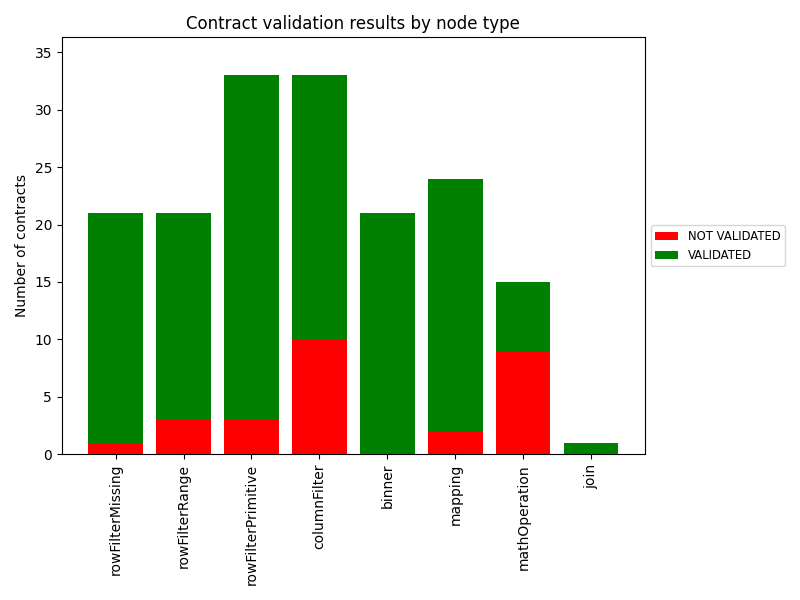
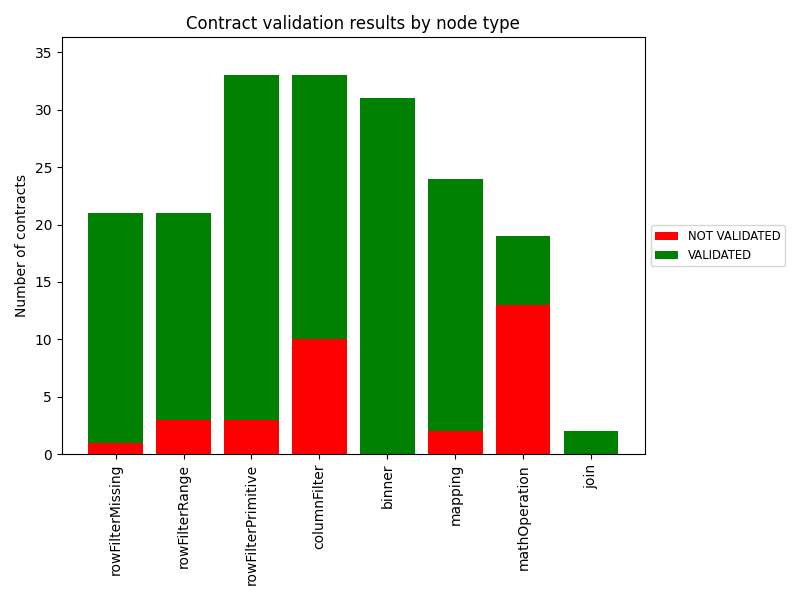
updated generated code for selected subworkflows and updated contract validation results in json data format for updated batcharts visualization

diff --git a/visualization_scripts/contract_val_results_gui.py b/visualization_scripts/contract_val_results_gui.py
@@ -1,33 +1,13 @@
-"""
-This script implements a graphical user interface (GUI) using Gradio
-to visualize contract validation results from workflows generated by
-KNIME and Python platforms. It provides automatic bar chart generation
-based on selected configurations and exports the resulting images.
-
-Modules:
-- gradio: For creating the GUI interface.
-- json: For reading structured data from JSON files.
-- os: For managing file paths and directories.
-- matplotlib.pyplot: For bar chart visualization.
-- collections: For structured counting of node types and validation results.
-
-Functionality:
-- Reactive graph generation upon input change.
-- Bar chart configuration by workflow, contract type, or node type.
-- Chart export with descriptive filenames based on selected options.
-- Side panel with contract validation statistics and percentages.
-"""
-
 import gradio as gr
 import json
 import os
 import matplotlib
-matplotlib.use('Agg')  # Avoid tkinter-related backend issues
+matplotlib.use('Agg')
 import matplotlib.pyplot as plt
 from collections import defaultdict, Counter
 import random
 
-# === Configuration ===
+# === Configuración ===
 
 DATA_PATHS = {
     "KNIME": "visualization_scripts/34_workflow_generated_code_validation_KNIME_data.json",
@@ -36,36 +16,24 @@ DATA_PATHS = {
 EXPORT_DIR = "visualization_scripts/barcharts_images"
 os.makedirs(EXPORT_DIR, exist_ok=True)
 
-
-# === Data Loading ===
+# === Carga de datos ===
 
 def flatten_contracts(contract_list: list):
     """
-    Flatten the contract list
-
-    Args:
-        contract_list: list with the contract results of a specific node
-
-    Returns:
-        the contract list flattened
+    Devuelve una lista de tuplas (tipo, resultado) para todos los contratos de un nodo.
     """
-    return {list(d.keys())[0]: list(d.values())[0] for d in contract_list if isinstance(d, dict)}
+    result = []
+    for d in contract_list:
+        if isinstance(d, dict):
+            for k, v in d.items():
+                result.append((k, v))
+    return result
 
 def load_data(source: str) -> list:
-    """
-    Load the workflow data corresponding to the selected platform.
-
-    Args:
-        source (str): Platform name ('KNIME' or 'Python').
-
-    Returns:
-        list: List of workflow dictionaries with node validation results.
-    """
     with open(DATA_PATHS[source], 'r') as f:
         return json.load(f)["workflows"]
 
-
-# === Color Mapping ===
+# === Asignación de colores ===
 
 def assign_colors(result_types):
     fixed_colors = {
@@ -85,19 +53,18 @@ def assign_colors(result_types):
         color_map[res] = col
     return color_map
 
-
-# === Chart Generation ===
+# === Generación de gráficos y estadísticas ===
 
 def generate_bar_chart_and_stats(source: str, x_axis_type: str):
     workflows = load_data(source)
 
-    # Identify all result types
+    # Identificar todos los tipos de resultado
     all_results = set()
     for wf in workflows:
         for node in wf["nodes"]:
             for contracts in node.values():
-                contracts_dict = flatten_contracts(contracts)
-                all_results.update(contracts_dict.values())
+                for _, result in flatten_contracts(contracts):
+                    all_results.add(result)
     all_results = sorted(all_results)
     color_map = assign_colors(all_results)
 
@@ -105,8 +72,7 @@ def generate_bar_chart_and_stats(source: str, x_axis_type: str):
         counts = {res: 0 for res in all_results}
         for node in nodes:
             for contracts in node.values():
-                contracts_dict = flatten_contracts(contracts)
-                for result in contracts_dict.values():
+                for _, result in flatten_contracts(contracts):
                     if result in counts:
                         counts[result] += 1
         return counts
@@ -125,79 +91,46 @@ def generate_bar_chart_and_stats(source: str, x_axis_type: str):
     elif x_axis_type == "subworkflows by node types":
         fig, ax = plt.subplots(figsize=(8, 6))
         node_type_set = set()
-
         for wf in workflows:
-
             for node in wf["nodes"]:
                 node_type_set.update(node.keys())
-
         node_types = sorted(node_type_set)
-
         color_map = assign_colors(node_types)
-
         node_type_counts = {nt: [] for nt in node_types}
-
         x_labels = []
-
         for wf in workflows:
-
             x_labels.append(wf["name"])
-
             counts = Counter()
-
             for node in wf["nodes"]:
-
-                for node_type in node.keys():
+                for node_type, contracts in node.items():
                     counts[node_type] += 1
-
             for nt in node_types:
                 node_type_counts[nt].append(counts[nt])
-
         x = range(len(x_labels))
-
         left = [0] * len(x_labels)
-
         for nt in node_types:
             ax.barh(x, node_type_counts[nt], left=left, color=color_map[nt], label=nt)
-
             left = [l + c for l, c in zip(left, node_type_counts[nt])]
-
         ax.set_yticks(x)
-
         ax.set_yticklabels(x_labels)
-
         ax.set_xlabel("Number of nodes")
-
         ax.set_title("Node types in subworkflows")
-
         ax.legend(loc="center left", bbox_to_anchor=(1, 0.5), fontsize="small")
-
         ax.xaxis.get_major_locator().set_params(integer=True)
-
         max_width = max(sum(values) for values in zip(*node_type_counts.values()))
-
         ax.set_xlim(right=max_width * 1.1)
-
         plt.subplots_adjust(right=0.75)
         plt.tight_layout()
-
         filename = f"chart_{source}_subworkflows_by_node_types.png"
-
         file_path = os.path.join(EXPORT_DIR, filename)
-
         plt.savefig(file_path)
-
         plt.close(fig)
-
-        # Estadísticas básicas opcionales (a tu gusto puedes enriquecerlas más)
         stats_html = "<h4>node types Statistics</h4>"
         total_nodes = sum(sum(v) for v in node_type_counts.values())
-        stats_html += f"<p><b>Total nodes:</b> {total_nodes}</p>"
         for nt in node_types:
             count = sum(node_type_counts[nt])
             percent = 100 * count / total_nodes if total_nodes else 0
             stats_html += f"<p style='color:{color_map[nt]}'><b>{nt}</b>: {count} ({percent:.1f}%)</p>"
-
         return file_path, stats_html
 
     elif x_axis_type == "contract type":
@@ -209,10 +142,9 @@ def generate_bar_chart_and_stats(source: str, x_axis_type: str):
             for wf in workflows:
                 for node in wf["nodes"]:
                     for contracts in node.values():
-                        contracts_dict = flatten_contracts(contracts)
-                        result = contracts_dict.get(ctype)
-                        if result in all_results:
-                            c_counts[result] += 1
+                        for tipo, result in flatten_contracts(contracts):
+                            if tipo == ctype and result in all_results:
+                                c_counts[result] += 1
             for res in all_results:
                 result_counts[res].append(c_counts[res])
 
@@ -222,8 +154,7 @@ def generate_bar_chart_and_stats(source: str, x_axis_type: str):
         for wf in workflows:
             for node in wf["nodes"]:
                 for node_type, contracts in node.items():
-                    contracts_dict = flatten_contracts(contracts)
-                    for result in contracts_dict.values():
+                    for _, result in flatten_contracts(contracts):
                         if result in all_results:
                             node_type_counts[node_type][result] += 1
         x_labels = list(node_type_counts.keys())
@@ -236,7 +167,6 @@ def generate_bar_chart_and_stats(source: str, x_axis_type: str):
         for res in all_results:
             ax.bar(x, result_counts[res], bottom=bottom, color=color_map[res], label=res)
             bottom = [b + rc for b, rc in zip(bottom, result_counts[res])]
-
         ax.set_xticks(x)
         ax.set_xticklabels(x_labels, rotation=90)
         ax.set_ylim(top=max(sum(values) for values in zip(*result_counts.values())) * 1.1)
@@ -245,29 +175,24 @@ def generate_bar_chart_and_stats(source: str, x_axis_type: str):
         ax.legend(loc="center left", bbox_to_anchor=(1, 0.5), fontsize="small")
         plt.subplots_adjust(right=0.75)
         plt.tight_layout()
-
         filename = f"chart_{source}_{x_axis_type.replace(' ', '_')}.png"
         file_path = os.path.join(EXPORT_DIR, filename)
         plt.savefig(file_path)
         plt.close(fig)
-
-        # Stats generation
+        # Estadísticas
         total_counter = Counter()
         contract_counter = defaultdict(Counter)
         for wf in workflows:
             for node in wf["nodes"]:
                 for contracts in node.values():
-                    contracts_dict = flatten_contracts(contracts)
-                    for ctype, result in contracts_dict.items():
+                    for tipo, result in flatten_contracts(contracts):
                         total_counter[result] += 1
-                        contract_counter[ctype][result] += 1
-
+                        contract_counter[tipo][result] += 1
         stats_html = "<h4>Validation Statistics</h4>"
         stats_html += f"<p><b>Total contracts:</b> {sum(total_counter.values())}</p>"
         for res in all_results:
             percent = 100 * total_counter[res] / sum(total_counter.values())
             stats_html += f"<p style='color:{color_map[res]}'><b>{res}</b>: {total_counter[res]} ({percent:.1f}%)</p>"
-
         stats_html += "<hr><h5>by contract type:</h5>"
         for ctype in ["PRECONDITION", "POSTCONDITION", "INVARIANT"]:
             stats_html += f"<p><b>{ctype}</b></p><ul>"
@@ -277,91 +202,53 @@ def generate_bar_chart_and_stats(source: str, x_axis_type: str):
                 pct = 100 * count / total if total > 0 else 0
                 stats_html += f"<li style='color:{color_map[res]}'>{res}: {count} ({pct:.1f}%)</li>"
             stats_html += "</ul>"
-
         return file_path, stats_html
 
     elif x_axis_type == "subworkflows":
-
         x = range(len(x_labels))
-
         left = [0] * len(x_labels)
-
         for res in all_results:
             ax.barh(x, result_counts[res], left=left, color=color_map[res], label=res)
-
             left = [l + rc for l, rc in zip(left, result_counts[res])]
-
         ax.set_yticks(x)
-
         ax.set_yticklabels(x_labels)
-
         max_total = max(sum(values) for values in zip(*result_counts.values()))
-        ax.set_xlim(right=(int(max_total) + 2))  # añade una marca extra entera
-
+        ax.set_xlim(right=(int(max_total) + 2))
         ax.set_xlabel("Number of contracts")
-
         ax.set_title(f"Contract validation results by {x_axis_type}")
-
         ax.legend(loc="center left", bbox_to_anchor=(1, 0.5), fontsize="small")
         plt.subplots_adjust(right=0.75)
         plt.tight_layout()
-
         filename = f"chart_{source}_{x_axis_type.replace(' ', '_')}.png"
-
         file_path = os.path.join(EXPORT_DIR, filename)
-
         plt.savefig(file_path)
-
         plt.close(fig)
-
-        # Stats generation (unchanged)
-
+        # Estadísticas
         total_counter = Counter()
-
         contract_counter = defaultdict(Counter)
-
         for wf in workflows:
-
             for node in wf["nodes"]:
-
                 for contracts in node.values():
-
-                    contracts_dict = flatten_contracts(contracts)
-                    for ctype, result in contracts_dict.items():
+                    for tipo, result in flatten_contracts(contracts):
                         total_counter[result] += 1
-
-                        contract_counter[ctype][result] += 1
-
+                        contract_counter[tipo][result] += 1
         stats_html = "<h4>Validation Statistics</h4>"
-
         stats_html += f"<p><b>Total contracts:</b> {sum(total_counter.values())}</p>"
-
         for res in all_results:
             percent = 100 * total_counter[res] / sum(total_counter.values())
-
             stats_html += f"<p style='color:{color_map[res]}'><b>{res}</b>: {total_counter[res]} ({percent:.1f}%)</p>"
-
         stats_html += "<hr><h5>by contract type:</h5>"
-
         for ctype in ["PRECONDITION", "POSTCONDITION", "INVARIANT"]:
-
             stats_html += f"<p><b>{ctype}</b></p><ul>"
-
             total = sum(contract_counter[ctype].values())
-
             for res in all_results:
                 count = contract_counter[ctype][res]
-
                 pct = 100 * count / total if total > 0 else 0
-
                 stats_html += f"<li style='color:{color_map[res]}'>{res}: {count} ({pct:.1f}%)</li>"
-
             stats_html += "</ul>"
-
         return file_path, stats_html
 
-
-# === Export Function ===
+# === Exportación de imagen ===
 
 def export_image():
     latest_image = next(
@@ -375,12 +262,10 @@ def export_image():
         return f"Chart exported as: {export_path}"
     return "No chart available for export."
 
-
 # === GUI ===
 
 with gr.Blocks(title="Contract Validation Results for 34 subworkflows") as demo:
     gr.Markdown("## Contract Validation Results for 34 subworkflows")
-
     with gr.Row():
         with gr.Column(scale=2):
             source = gr.Radio(choices=["KNIME", "Python"], value="KNIME", label="Select the platform")
@@ -389,20 +274,14 @@ with gr.Blocks(title="Contract Validation Results for 34 subworkflows") as demo:
                 value="subworkflows",
                 label="Select X-axis variable"
             )
-
             chart = gr.Image(type="filepath", label="Generated Chart")
             export_btn = gr.Button("Export Image")
             export_msg = gr.Textbox(label="Export Message")
         with gr.Column(scale=1):
             stats_panel = gr.HTML(label="Validation Statistics")
-
-    # Events
     source.change(fn=generate_bar_chart_and_stats, inputs=[source, x_axis], outputs=[chart, stats_panel])
     x_axis.change(fn=generate_bar_chart_and_stats, inputs=[source, x_axis], outputs=[chart, stats_panel])
     export_btn.click(fn=export_image, inputs=[], outputs=export_msg)
-
-    # Initial load
     chart.value, stats_panel.value = generate_bar_chart_and_stats("KNIME", "subworkflows")
-
 if __name__ == "__main__":
     demo.launch()
